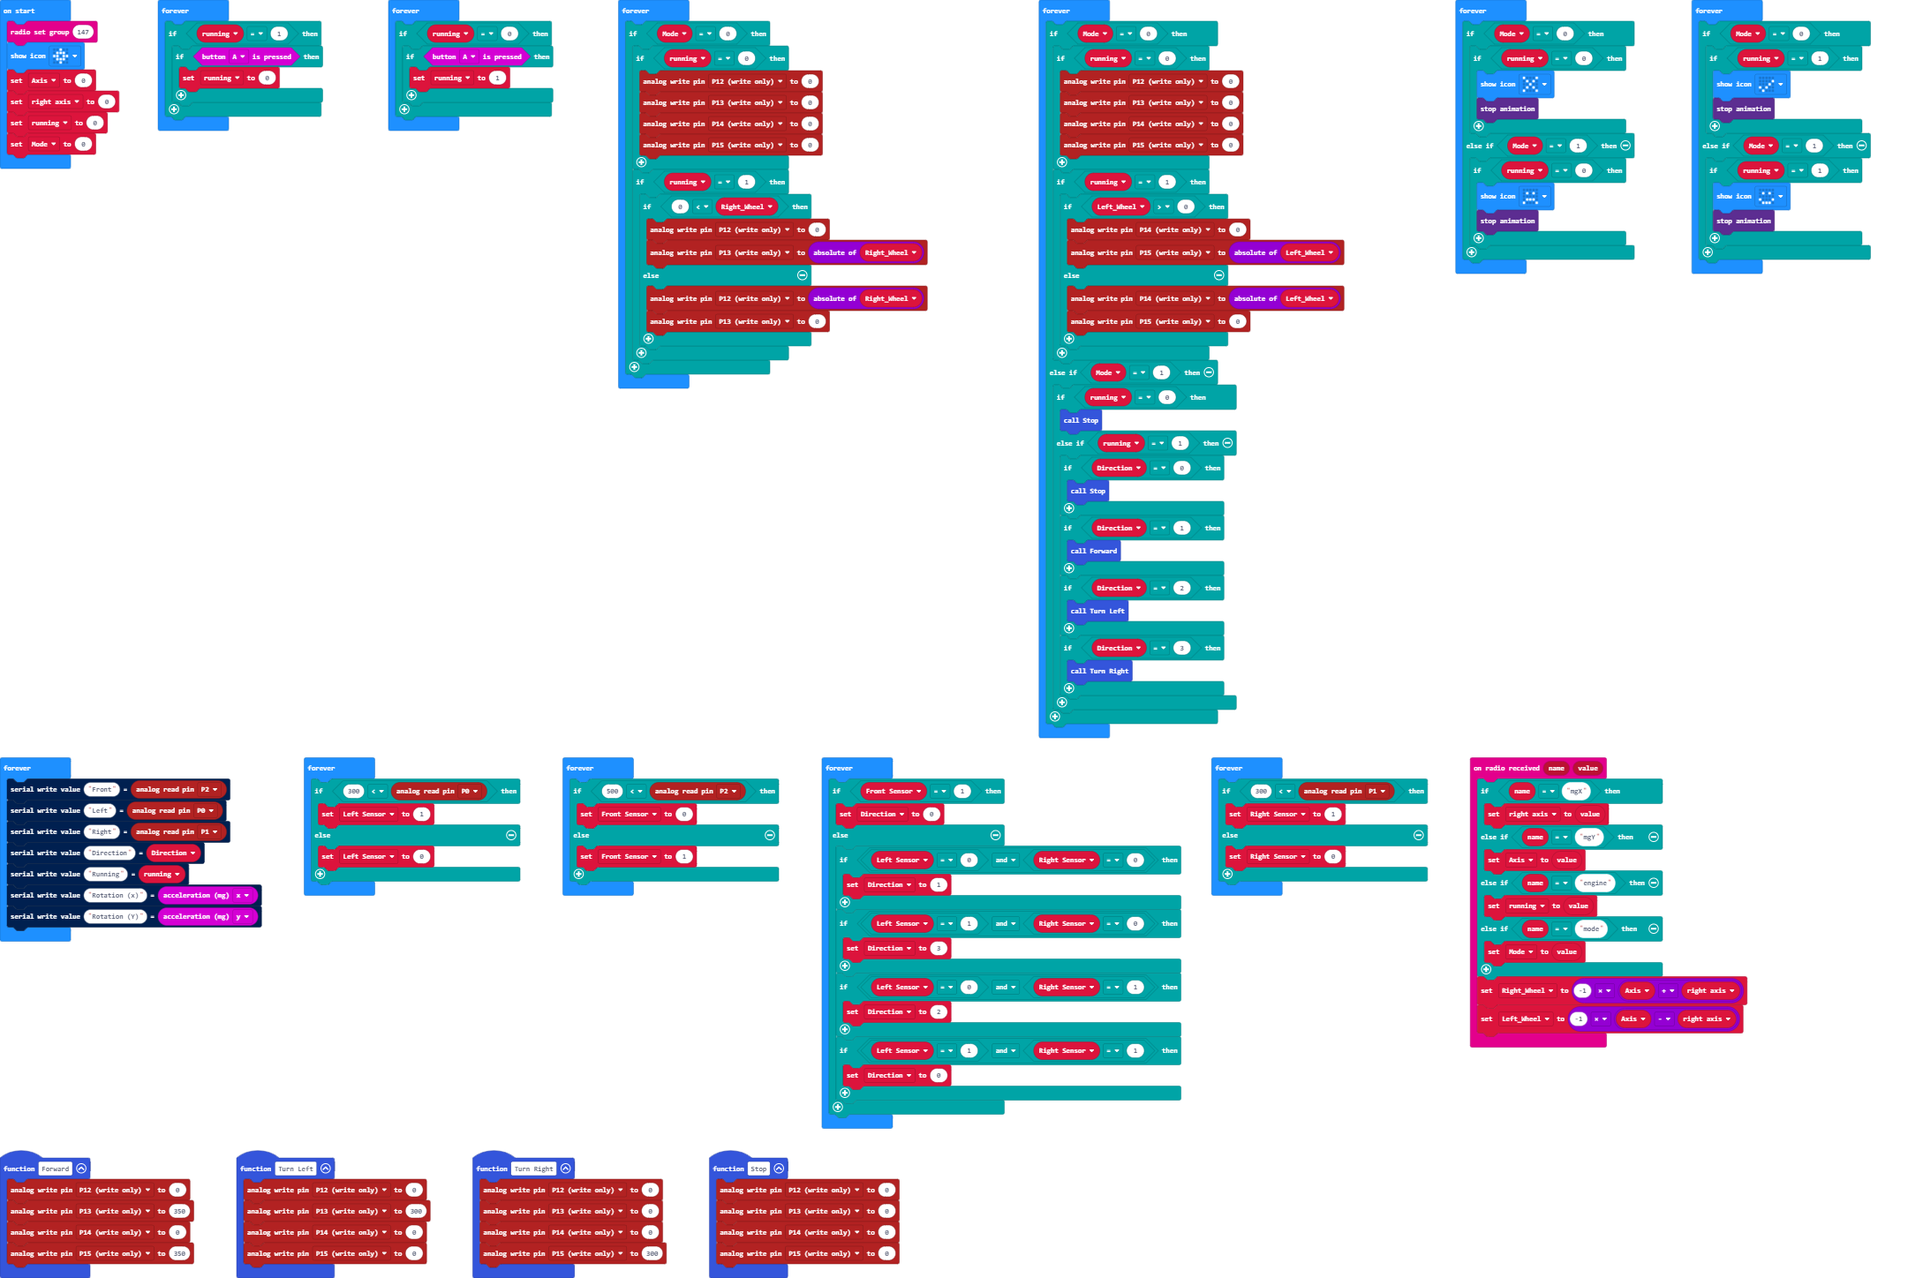
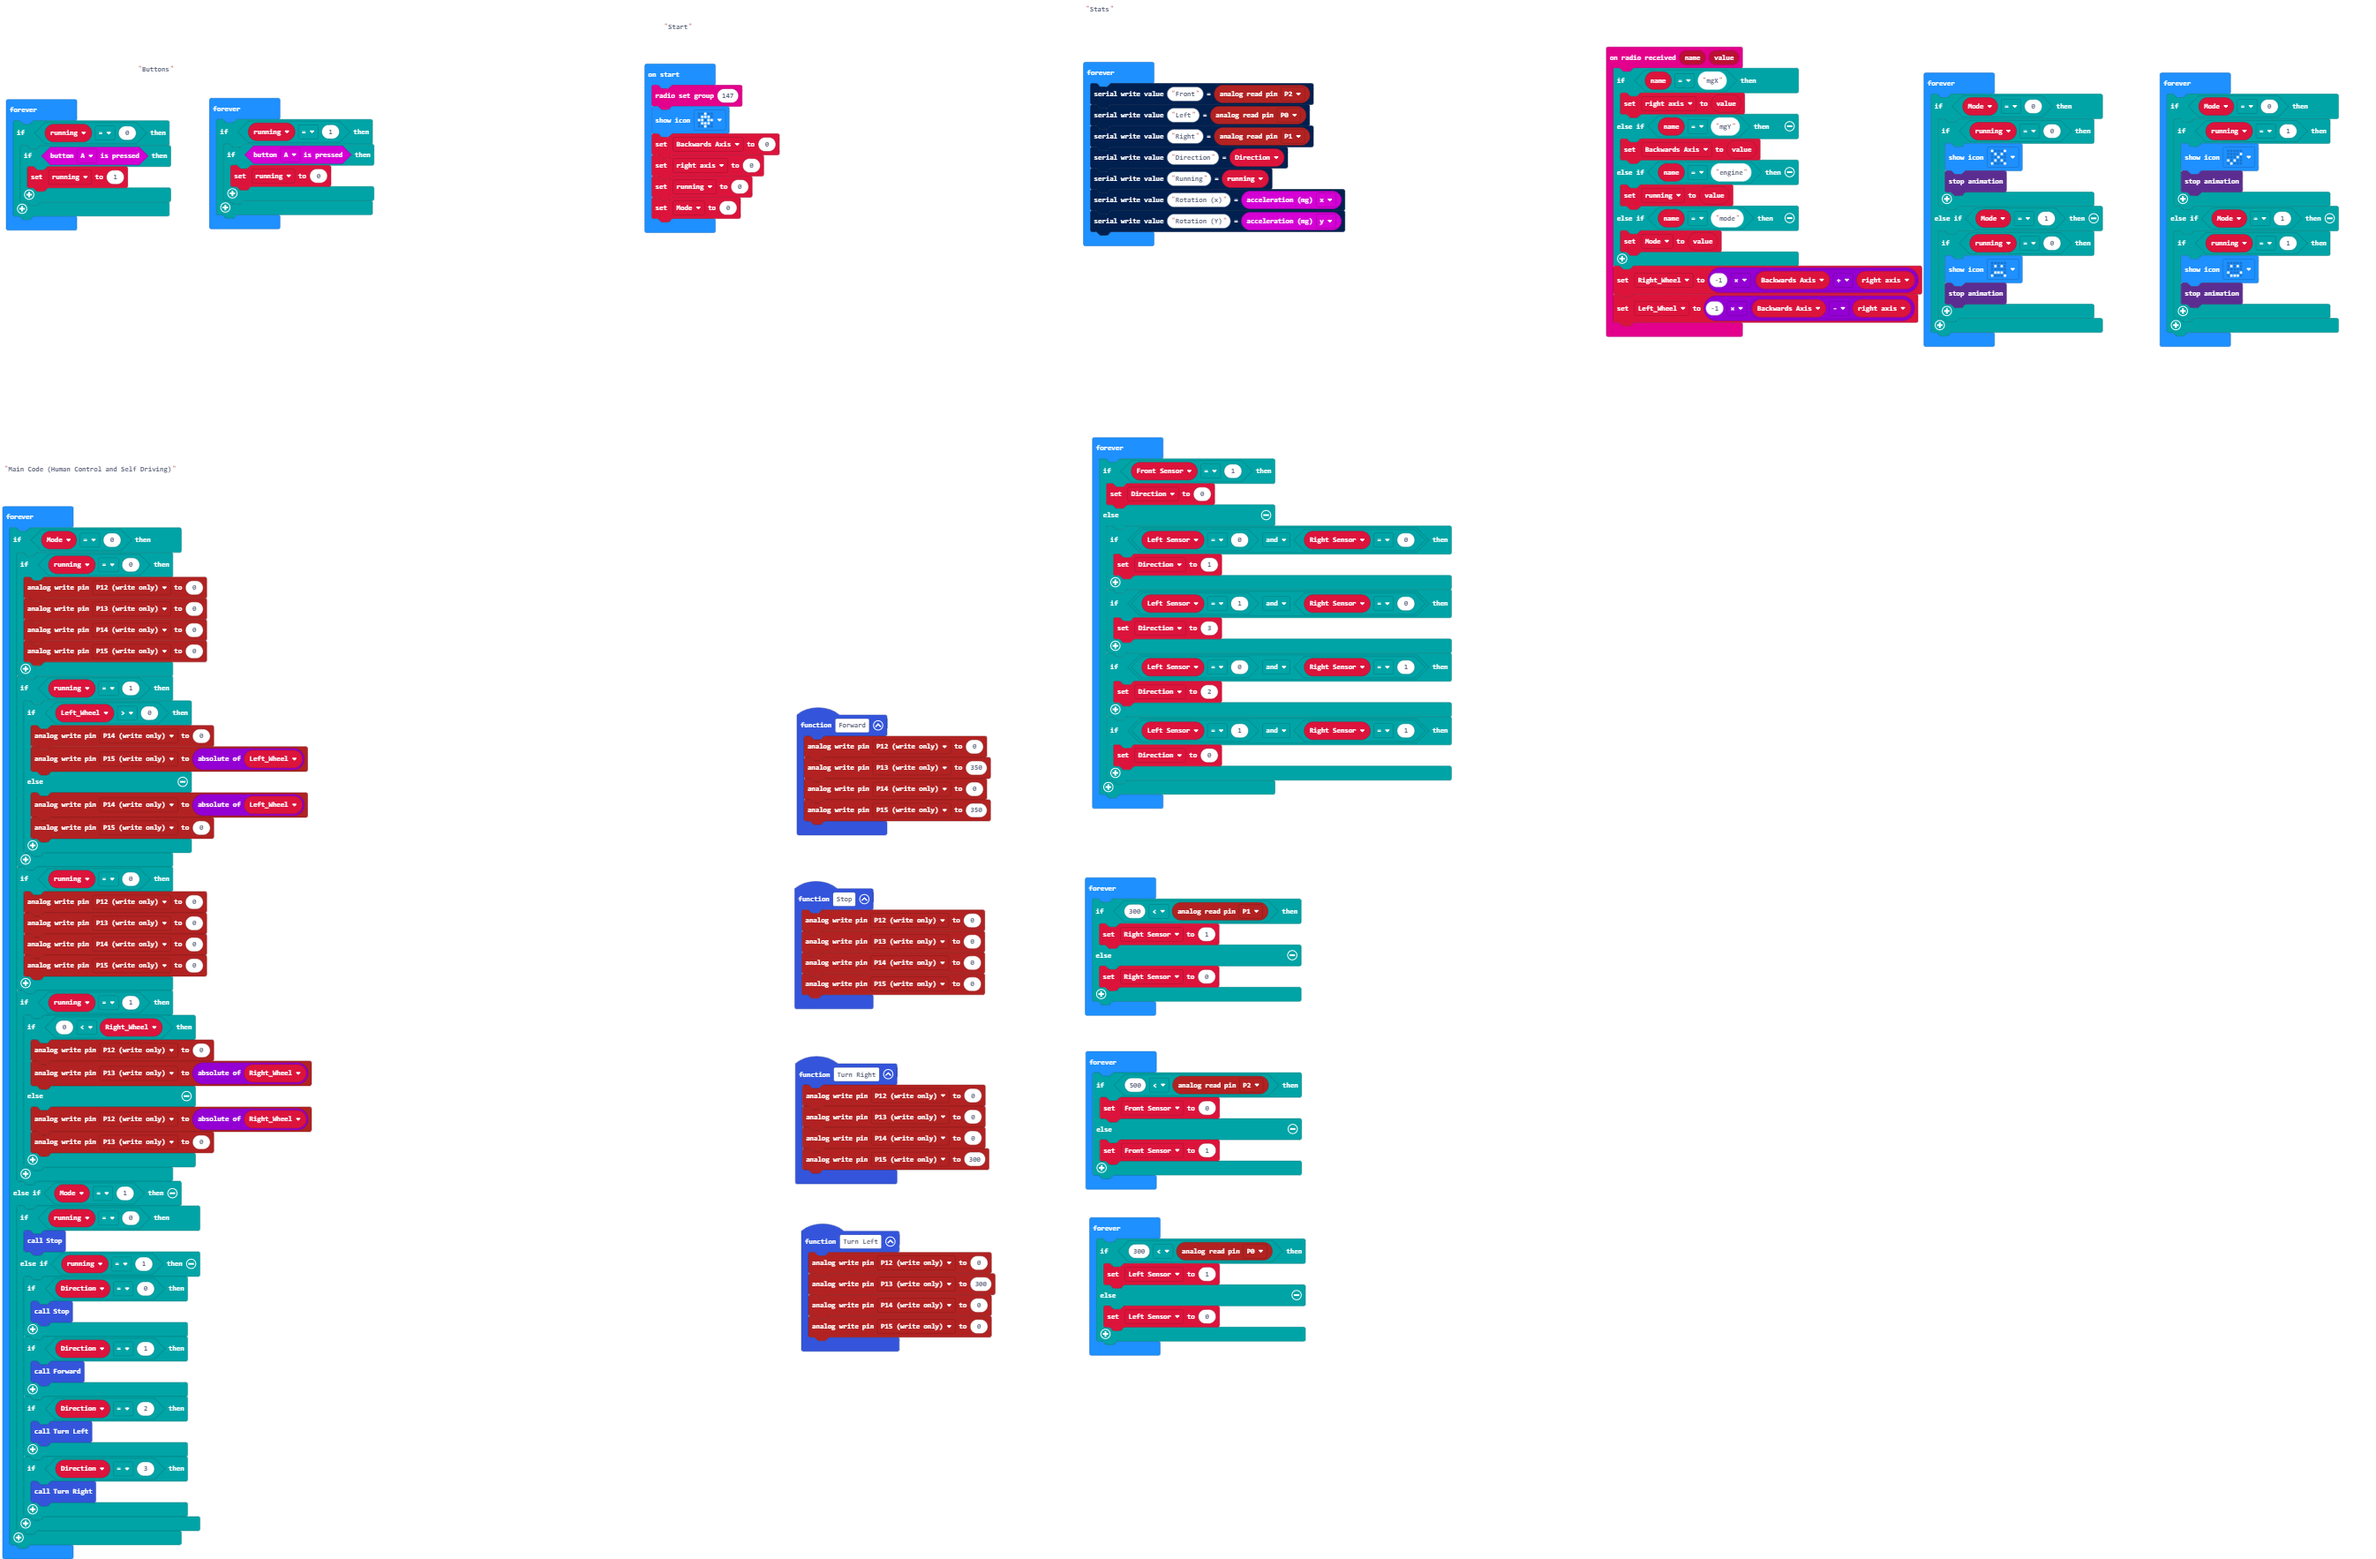
Update main.blocks, main.ts

diff --git a/main.ts b/main.ts
@@ -20,14 +20,14 @@ radio.onReceivedValue(function (name, value) {
     if (name == "mgX") {
         right_axis = value
     } else if (name == "mgY") {
-        Axis = value
+        Backwards_Axis = value
     } else if (name == "engine") {
         running = value
     } else if (name == "mode") {
         Mode = value
     }
-    Right_Wheel = -1 * (Axis + right_axis)
-    Left_Wheel = -1 * (Axis - right_axis)
+    Right_Wheel = -1 * (Backwards_Axis + right_axis)
+    Left_Wheel = -1 * (Backwards_Axis - right_axis)
 })
 function Stop () {
     pins.analogWritePin(AnalogPin.P12, 0)
@@ -36,28 +36,21 @@ function Stop () {
     pins.analogWritePin(AnalogPin.P15, 0)
 }
 let Right_Sensor = 0
-let Front_Sensor = 0
 let Left_Sensor = 0
+let Front_Sensor = 0
 let Direction2 = 0
 let Left_Wheel = 0
 let Right_Wheel = 0
 let Mode = 0
 let running = 0
 let right_axis = 0
-let Axis = 0
+let Backwards_Axis = 0
 radio.setGroup(147)
 basic.showIcon(IconNames.Target)
-Axis = 0
+Backwards_Axis = 0
 right_axis = 0
 running = 0
 Mode = 0
-basic.forever(function () {
-    if (running == 1) {
-        if (input.buttonIsPressed(Button.A)) {
-            running = 0
-        }
-    }
-})
 basic.forever(function () {
     if (running == 0) {
         if (input.buttonIsPressed(Button.A)) {
@@ -66,59 +59,20 @@ basic.forever(function () {
     }
 })
 basic.forever(function () {
-    if (Mode == 0) {
-        if (running == 0) {
-            pins.analogWritePin(AnalogPin.P12, 0)
-            pins.analogWritePin(AnalogPin.P13, 0)
-            pins.analogWritePin(AnalogPin.P14, 0)
-            pins.analogWritePin(AnalogPin.P15, 0)
-        }
-        if (running == 1) {
-            if (0 < Right_Wheel) {
-                pins.analogWritePin(AnalogPin.P12, 0)
-                pins.analogWritePin(AnalogPin.P13, Math.abs(Right_Wheel))
-            } else {
-                pins.analogWritePin(AnalogPin.P12, Math.abs(Right_Wheel))
-                pins.analogWritePin(AnalogPin.P13, 0)
-            }
+    if (running == 1) {
+        if (input.buttonIsPressed(Button.A)) {
+            running = 0
         }
     }
 })
 basic.forever(function () {
-    if (Mode == 0) {
-        if (running == 0) {
-            pins.analogWritePin(AnalogPin.P12, 0)
-            pins.analogWritePin(AnalogPin.P13, 0)
-            pins.analogWritePin(AnalogPin.P14, 0)
-            pins.analogWritePin(AnalogPin.P15, 0)
-        }
-        if (running == 1) {
-            if (Left_Wheel > 0) {
-                pins.analogWritePin(AnalogPin.P14, 0)
-                pins.analogWritePin(AnalogPin.P15, Math.abs(Left_Wheel))
-            } else {
-                pins.analogWritePin(AnalogPin.P14, Math.abs(Left_Wheel))
-                pins.analogWritePin(AnalogPin.P15, 0)
-            }
-        }
-    } else if (Mode == 1) {
-        if (running == 0) {
-            Stop()
-        } else if (running == 1) {
-            if (Direction2 == 0) {
-                Stop()
-            }
-            if (Direction2 == 1) {
-                Forward()
-            }
-            if (Direction2 == 2) {
-                Turn_Left()
-            }
-            if (Direction2 == 3) {
-                Turn_Right()
-            }
-        }
-    }
+    serial.writeValue("Front", pins.analogReadPin(AnalogPin.P2))
+    serial.writeValue("Left", pins.analogReadPin(AnalogPin.P0))
+    serial.writeValue("Right", pins.analogReadPin(AnalogPin.P1))
+    serial.writeValue("Direction", Direction2)
+    serial.writeValue("Running", running)
+    serial.writeValue("Rotation (x)", input.acceleration(Dimension.X))
+    serial.writeValue("Rotation (Y)", input.acceleration(Dimension.Y))
 })
 basic.forever(function () {
     if (Mode == 0) {
@@ -147,29 +101,6 @@ basic.forever(function () {
     }
 })
 basic.forever(function () {
-    serial.writeValue("Front", pins.analogReadPin(AnalogPin.P2))
-    serial.writeValue("Left", pins.analogReadPin(AnalogPin.P0))
-    serial.writeValue("Right", pins.analogReadPin(AnalogPin.P1))
-    serial.writeValue("Direction", Direction2)
-    serial.writeValue("Running", running)
-    serial.writeValue("Rotation (x)", input.acceleration(Dimension.X))
-    serial.writeValue("Rotation (Y)", input.acceleration(Dimension.Y))
-})
-basic.forever(function () {
-    if (300 < pins.analogReadPin(AnalogPin.P0)) {
-        Left_Sensor = 1
-    } else {
-        Left_Sensor = 0
-    }
-})
-basic.forever(function () {
-    if (500 < pins.analogReadPin(AnalogPin.P2)) {
-        Front_Sensor = 0
-    } else {
-        Front_Sensor = 1
-    }
-})
-basic.forever(function () {
     if (Front_Sensor == 1) {
         Direction2 = 0
     } else {
@@ -188,9 +119,74 @@ basic.forever(function () {
     }
 })
 basic.forever(function () {
+    if (Mode == 0) {
+        if (running == 0) {
+            pins.analogWritePin(AnalogPin.P12, 0)
+            pins.analogWritePin(AnalogPin.P13, 0)
+            pins.analogWritePin(AnalogPin.P14, 0)
+            pins.analogWritePin(AnalogPin.P15, 0)
+        }
+        if (running == 1) {
+            if (Left_Wheel > 0) {
+                pins.analogWritePin(AnalogPin.P14, 0)
+                pins.analogWritePin(AnalogPin.P15, Math.abs(Left_Wheel))
+            } else {
+                pins.analogWritePin(AnalogPin.P14, Math.abs(Left_Wheel))
+                pins.analogWritePin(AnalogPin.P15, 0)
+            }
+        }
+        if (running == 0) {
+            pins.analogWritePin(AnalogPin.P12, 0)
+            pins.analogWritePin(AnalogPin.P13, 0)
+            pins.analogWritePin(AnalogPin.P14, 0)
+            pins.analogWritePin(AnalogPin.P15, 0)
+        }
+        if (running == 1) {
+            if (0 < Right_Wheel) {
+                pins.analogWritePin(AnalogPin.P12, 0)
+                pins.analogWritePin(AnalogPin.P13, Math.abs(Right_Wheel))
+            } else {
+                pins.analogWritePin(AnalogPin.P12, Math.abs(Right_Wheel))
+                pins.analogWritePin(AnalogPin.P13, 0)
+            }
+        }
+    } else if (Mode == 1) {
+        if (running == 0) {
+            Stop()
+        } else if (running == 1) {
+            if (Direction2 == 0) {
+                Stop()
+            }
+            if (Direction2 == 1) {
+                Forward()
+            }
+            if (Direction2 == 2) {
+                Turn_Left()
+            }
+            if (Direction2 == 3) {
+                Turn_Right()
+            }
+        }
+    }
+})
+basic.forever(function () {
     if (300 < pins.analogReadPin(AnalogPin.P1)) {
         Right_Sensor = 1
     } else {
         Right_Sensor = 0
+    }
+})
+basic.forever(function () {
+    if (500 < pins.analogReadPin(AnalogPin.P2)) {
+        Front_Sensor = 0
+    } else {
+        Front_Sensor = 1
+    }
+})
+basic.forever(function () {
+    if (300 < pins.analogReadPin(AnalogPin.P0)) {
+        Left_Sensor = 1
+    } else {
+        Left_Sensor = 0
     }
 })
